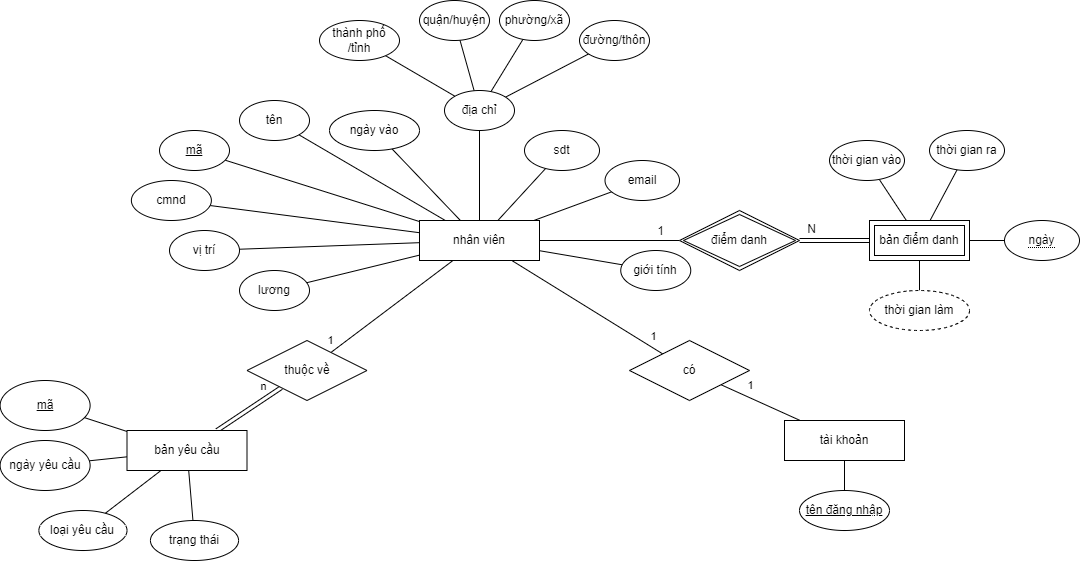
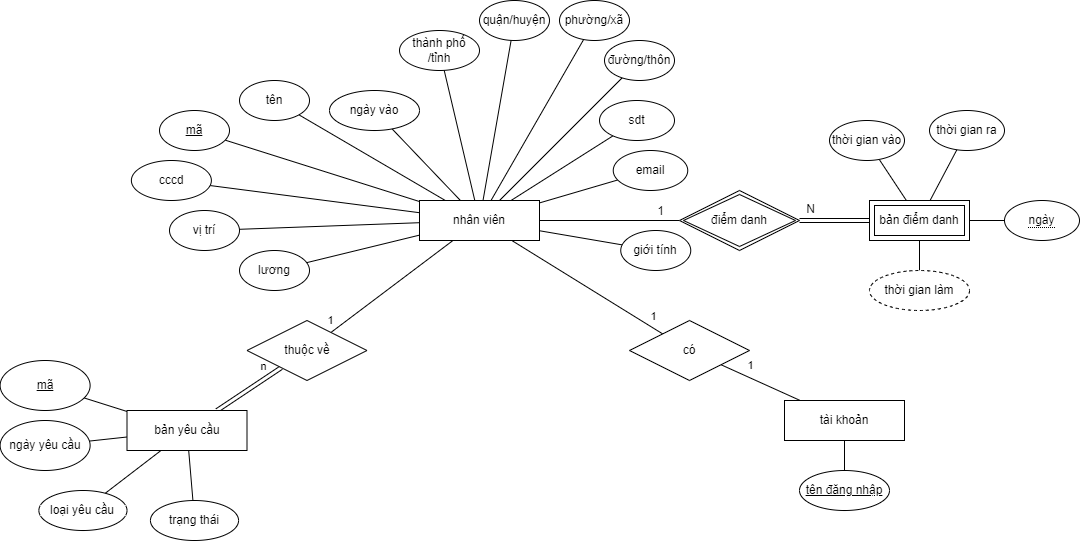
update Database

diff --git a/tex/database.tex b/tex/database.tex
@@ -118,6 +118,139 @@
     \item Ngày kết thúc: ngày quản lý nghỉ làm việc tại kho đó.
 \end{itemize}
 
+\subsubsection{Service chi nhánh}
+\begin{figure}[!htp]
+    \begin{center}
+        \includegraphics[width=1\textwidth]{img/database/erd/branch.png}
+        \newline
+        \caption{ERD cho database của service chi nhánh}
+    \end{center}
+\end{figure}
+
+Database của service chi nhánh bao gồm hai thực thể là Nhân viên và chi nhánh. Thực thể chi nhánh chứa thông tin về chi nhánh:
+\begin{itemize}
+    \item mã: thuộc tính khóa, là mã của chi nhánh.
+    \item tên: Tên chi nhánh.
+    \item ngày tạo: Ngày tạo chi nhánh.
+    \item giờ mở: Giờ mở cửa mổi ngày của chi nhánh.
+    \item giờ đóng: Giờ đóng cửa mổi ngày của chi nhánh.
+    \item hình ảnh: Hình ảnh minh họa chi nhánh.
+    \item đường/thôn: Tên đường của chi nhánh.
+    \item phường/xã: Phường xã của chi nhánh.
+    \item quận/huyện: Quận, huyện của chi nhánh.
+    \item thành phố /tỉnh: Tỉnh, thành phố của chi nhánh
+\end{itemize}
+
+Thực thể Nhân viên chỉ chứa một vài thông tin nhân viên:
+\begin{itemize}
+    \item mã: thuộc tính khóa, là mã của nhân viên.
+\end{itemize}
+
+Chi nhánh và nhân viên có mối quan hệ Làm tại và Quản lý: Mỗi chi nhánh đều phải có ít nhất một nhân viên và một quản lý. Mối quan hệ Bao gồm có các thông tin:
+\begin{itemize}
+    \item ngày bắt đầu: ngày bắt đầu làm việc tại chi nhánh của nhân viên.
+    \item ngày kết thúc: ngày kết thúc làm việc tại chi nhánh của nhân viên.
+\end{itemize}   
+
+
+\subsubsection{Service tài khoản}
+\begin{figure}[!htp]
+    \begin{center}
+        \includegraphics[width=5cm]{img/database/erd/account.png}
+        \newline
+        \caption{ERD cho database của service tài khoản}
+    \end{center}
+\end{figure}
+
+Database của service tài khoản chỉ có thực thể tài khoản chứa thông tin về tài khoản:
+\begin{itemize}
+    \item tên đăng nhập: Thuộc tính khóa, là tên đăng nhập của tài khoản.
+    \item mật khẩu: Mật khẩu của tài khoản.
+    \item quyền: Quyền của tài khoản.
+\end{itemize}
+
+
+\subsubsection{Service nhân viên}
+\begin{figure}[!htp]
+    \begin{center}
+        \includegraphics[width=1\textwidth]{img/database/erd/staff.png}
+        \newline
+        \caption{ERD cho database của service nhân viên}
+    \end{center}
+\end{figure}
+
+Database của service nhân viên chứa các thực thể Nhân viên, Bản yêu cầu, Tài khoản, Bản điểm danh. Thực thể Nhân viên bao gồm các thông tin của nhân viên:
+\begin{itemize}
+    \item mã: thuộc tính khóa, là mã của nhân viên.
+    \item tên: Tên nhân viên.
+    \item cccd: Căn cước công dân chi nhánh
+    \item vị trí: Vị trí làm việc trong cửa hàng
+    \item lương: Mức lương của nhân viên
+    \item ngày vào: Ngày được nhận vào làm.
+    \item sdt: Số điện thoại của nhân viên.
+    \item email: Email của nhân viên.
+    \item đường/thôn: Tên đường của nhân viên.
+    \item phường/xã: Phường xã của nhân viên.
+    \item quận/huyện: Quận, huyện của nhân viên.
+    \item thành phố /tỉnh: Tỉnh, thành phố của nhân viên
+\end{itemize}
+
+Thực thể Bản yêu cầu chứa thông tin về yêu cầu thêm, xóa nhân viên:
+\begin{itemize}
+    \item mã: thuộc tính khóa, là mã của yêu cầu.
+    \item ngày yêu cầu: Ngày tạo yêu cầu
+    \item loại yêu cầu: Loại của yêu cầu là thêm hay xóa
+    \item trạng thái: Trạng thái của yêu cầu đang chờ, được duyệt hoặc hủy bỏ
+\end{itemize}
+
+Thực thể Bản điểm danh chứa thông tin về hoạt động điểm danh của nhân viên:
+\begin{itemize}
+    \item ngày: thuộc tính khóa, là ngày làm việc của nhân viên.
+    \item thời gian vào: Thời gian bắt đầu vào làm trong ngày của nhân viên
+    \item thời gian ra: Thời gian kết thúc làm trong ngày của nhân viên
+    \item thời gian làm: Thời gian làm việc trong ngày của nhân viên
+\end{itemize}
+
+Thực thể Tài khoản chỉ chứa thông tin về tên tài khoản của nhân viên
+
+Nhân viên và Bản yêu cầu có mối quan hệ Thuộc về: Mỗi bản yêu cầu đều phải thuộc về một nhân viên
+
+Nhân viên và Tài khoản có mối quan hệ Có: Chỉ có các nhân viên cấp quản lý mới sở hữu tài khoản
+
+Nhân viên và Bản điểm danh cầu có mối quan hệ Điểm danh: Tât cả bản điểm danh đều phải có nhân viên
+
+
+\subsubsection{Service thống kê}
+\begin{figure}[!htp]
+    \begin{center}
+        \includegraphics[width=1\textwidth]{img/database/erd/Statistic.png}
+        \newline
+        \caption{ERD cho database của service thống kê}
+    \end{center}
+\end{figure}
+
+Database của service chi nhánh bao gồm hai thực thể là Đơn hàng và hàng. Thực thể đơn hàng chứa thông tin về các đơn hàng:
+\begin{itemize}
+    \item Mã đơn hàng: thuộc tính khóa, là mã của đơn hàng.
+    \item Ngày giao dịch: Ngày tạo đơn hàng.
+    \item mã cửa hàng: Nơi tạo đơn hàng.
+\end{itemize}
+
+Thực thể Hàng chỉ chứa một vài thông tin của hàng hóa được bán:
+\begin{itemize}
+    \item Mã hàng: thuộc tính khóa, là mã của món hàng.
+    \item Kích thước: thuộc tính khóa, là kích thước của món hàng.
+    \item Màu: thuộc tính khóa, là mã của món hàng.
+    \item Loại: Loại của món hàng.
+    \item Số lượng: Số lượng của món hàng trong đơn.
+    \item Giới tính: Giới tính của món hàng.
+    \item chi phí: Giá nhập của món hàng.
+    \item đơn giá: Đơn giá bán ra của món hàng.
+\end{itemize}
+
+Đơn hàng và hàng có mối quan hệ bao gồm: Mỗi đơn hàng đều phải có ít nhất một món hàng và mỗi món hàng đều phải nằm trong ít nhất một đơn hàng:
+
+
 \subsection{Ánh xạ}
 \par Từ các ERD/EERD trên, chúng ta có các ánh xạ sau tương ứng với mỗi service.
 
@@ -145,5 +278,43 @@
         \includegraphics[width=1\textwidth]{img/database/mapping/mapping-kho.png}
         \newline
         \caption{Ánh xạ cho database của service Kho}
+    \end{center}
+\end{figure}
+
+\subsubsection{Service chi nhánh}
+\begin{figure}[!htp]
+    \begin{center}
+        \includegraphics[width=1\textwidth]{img/database/mapping/branch.png}
+        \newline
+        \caption{Ánh xạ cho database của service chi nhánh}
+    \end{center}
+\end{figure}
+
+
+\subsubsection{Service tài khoản}
+\begin{figure}[!htp]
+    \begin{center}
+        \includegraphics[width=5cm]{img/database/mapping/account.png}
+        \newline
+        \caption{Ánh xạ cho database của service tài khoản}
+    \end{center}
+\end{figure}
+
+\subsubsection{Service nhân viên}
+\begin{figure}[!htp]
+    \begin{center}
+        \includegraphics[width=1\textwidth]{img/database/mapping/staff.png}
+        \newline
+        \caption{Ánh xạ cho database của service nhân viên}
+    \end{center}
+\end{figure}
+
+
+\subsubsection{Service thống kê}
+\begin{figure}[!htp]
+    \begin{center}
+        \includegraphics[width=1\textwidth]{img/database/mapping/Statistic.png}
+        \newline
+        \caption{Ánh xạ cho database của service thống kê}
     \end{center}
 \end{figure}
